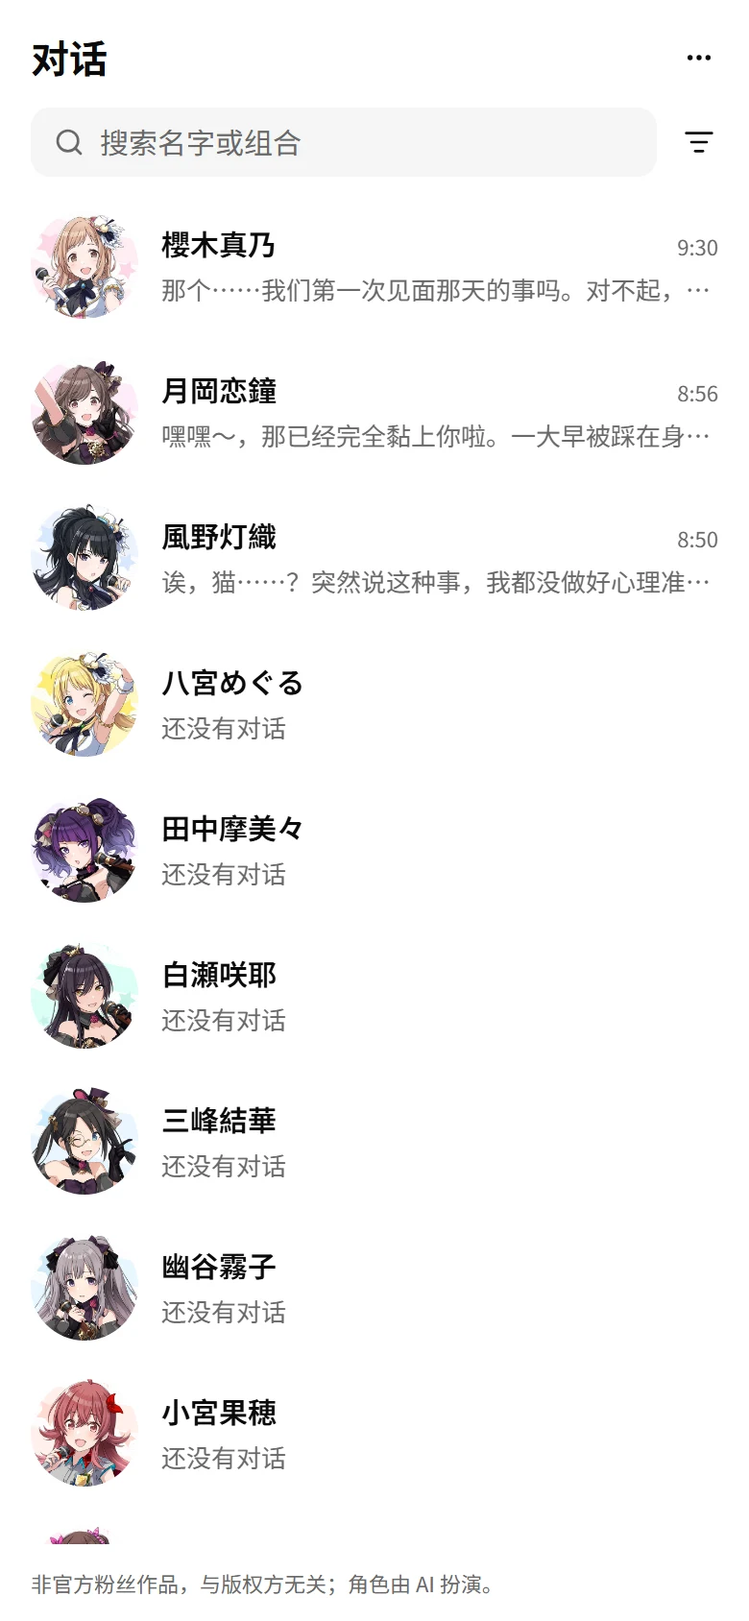
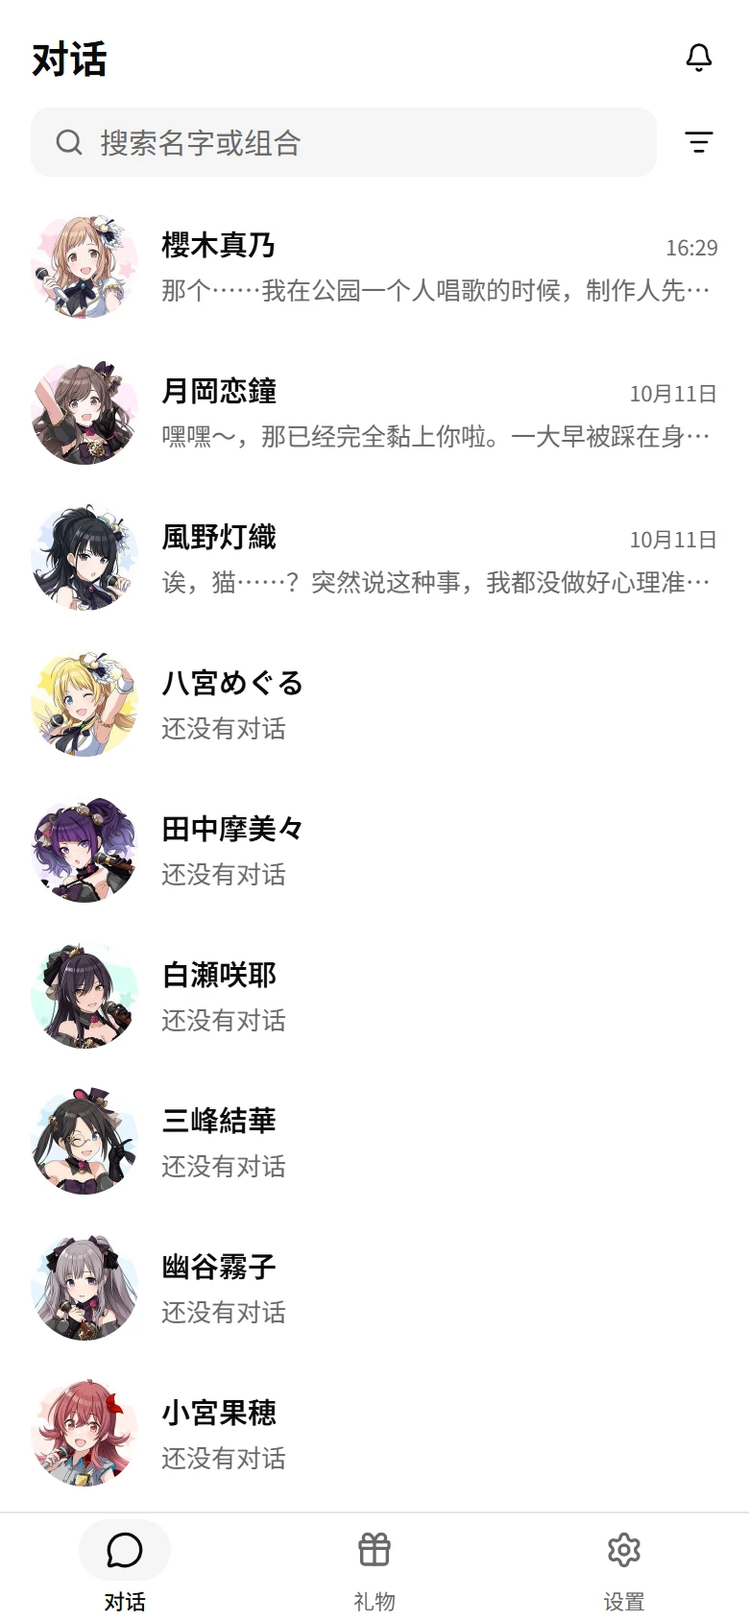
feat: 开关默认开、对外文档和截图（gifts 票 10）：EIDOLON_AFFINITY_AND_GIFTS 不设时打开（_switch 加 default），配了判断模型就是开的、没配仍然整块关闭，走接口的测试 2 条；Settings 的默认值跟着改成开，测 Cloudflare 判断的那条显式关掉好感度；.env 示例和三种语言的配置指南改成默认开，「好感度」一节改名「好感度和礼物」，补上礼物是什么、关掉时礼物页怎样、抽奖和送礼不调用任何模型不增加费用、后台发重置卡、管理者看不到礼物；隐私政策加「礼物」一条、「对话」补送礼记录且不进记忆、管理者看不到礼物和抽奖次数；使用条款「玩法

diff --git a/frontend/src/i18n/zh.ts b/frontend/src/i18n/zh.ts
@@ -1296,10 +1296,11 @@ export const zh = {
         title: "我们保存哪些数据",
         items: [
           { term: "登录方式", text: "你用来登录的 Google 或 GitHub 账号的编号、显示名和邮箱。我们拿不到你的密码。" },
-          { term: "对话", text: "你对角色说的话（打字的，以及通话时语音识别出的文字）和角色的回复，以及「她挂断了电话」这样的记录（这类记录不会被提炼成记忆）。通话的录音不保存。" },
+          { term: "对话", text: "你对角色说的话（打字的，以及通话时语音识别出的文字）和角色的回复，你在对话里送她礼物的送礼记录，以及「她挂断了电话」这样的记录（送礼记录和这类记录都不会被提炼成记忆）。通话的录音不保存。" },
           { term: "记忆", text: "角色从对话中记下的关于你的事，所有角色共用，你可以在「管理记忆」页查看和删除。" },
           { term: "制作人档案", text: "你设置的称呼、性别、时区和生日（只有月和日）。" },
           { term: "好感度", text: "每位角色对你各有一份好感度，以及有没有在冷却、什么时候解除。你只看得到档位，看不到数值。它不能单独删除，删除记忆也不影响它；删除全部数据时一起删除。" },
+          { term: "礼物", text: "你背包里的礼物、重置卡，还有抽奖次数。删除全部数据时一起删除。" },
           { term: "自带密钥", text: "如果你填了自己的 API key，它只保存在你的浏览器里，我们不保存；每次回合或通话时随请求发给服务器，只在处理期间留在内存里，不写入数据库、日志或备份。" },
           { term: "登录状态和限额的计数", text: "让你在各台设备上保持登录的状态，以及最近 24 小时内你发起回合和通话的次数（用于限额）。" },
           { term: "运行记录", text: "每个回合和每次通话是和哪位角色、什么时候、结果如何（成功、失败、被拒绝等）、通话的时长和结束原因（包括角色挂断），判断模型对每个回合的判断结果（这句话让角色开心、不舒服还是没有影响，有没有判为不该说的话或操纵，有没有因此进入冷却），以及其中用了哪些服务和模型、是否用了自带密钥、用量（例如 token 数）、有没有出错和花了多久。不含你说的话和角色的回复，不记密钥，也不记自带 LLM 的服务地址和模型名。满 90 天自动删除。" },
@@ -1323,7 +1324,7 @@ export const zh = {
         title: "管理者能看到什么",
         items: [
           { term: "能看到", text: "你的登录方式（Google 或 GitHub、显示名和邮箱）、注册和最后活跃的时间、最近 24 小时到 30 天的回合和通话次数（包括被限额拒绝的）、你的用量里有多少用的是自带密钥、是否被封禁（以及封禁时管理者写的备注），以及有没有单独的限额。" },
-          { term: "看不到", text: "你和角色的对话、角色记下的记忆、你的制作人档案，以及各位角色对你的好感度和冷却；好感度只能看到所有用户合起来的统计，管理者也不能调整某一位用户的好感度。" },
+          { term: "看不到", text: "你和角色的对话、角色记下的记忆、你的制作人档案，各位角色对你的好感度和冷却，以及你的礼物、重置卡和抽奖次数；好感度只能看到所有用户合起来的统计，管理者也不能调整某一位用户的好感度。" },
         ],
         notes: [
           "管理者是部署者指定的少数几位用户，在只有他们能进入的后台里管理这个网站。运行记录还会汇总成全站的统计，用来查看各项服务是否正常、有多少人在用、大约花了多少钱。",
@@ -1355,7 +1356,7 @@ export const zh = {
       { term: "不保证一直可用", text: "服务由个人部署和负担费用，可能随时调整限额、暂停或关闭，数据也可能因故丢失。" },
       { term: "年满 13 岁", text: "你需要年满 13 岁才能使用。" },
       { term: "不要滥用", text: "请不要用它做违法的事，或刻意刷用量；管理者可以封禁这样的用户，或单独收紧他的限额。" },
-      { term: "玩法：好感度和冷却", text: "角色对你的好感度会随你说的话升降：好好对她，她会更亲近你；冒犯她，她会疏远你，好感度跌到底时她会暂时不和你说话，这段时间叫冷却，通话中她也会挂断电话；一次通话里说了两次不该说的话（性骚扰、辱骂、威胁等），她同样会挂断。这些都是玩法的一部分，由 AI 根据你说的话判断，可能误判。冷却最长 24 小时，到时自动解除，不是封禁，也不是限额；管理者不会人工调整任何人的好感度或冷却。" },
+      { term: "玩法：好感度、冷却和礼物", text: "角色对你的好感度会随你说的话升降：好好对她，她会更亲近你；冒犯她，她会疏远你，好感度跌到底时她会暂时不和你说话，这段时间叫冷却，通话中她也会挂断电话；一次通话里说了两次不该说的话（性骚扰、辱骂、威胁等），她同样会挂断。这些都是玩法的一部分，由 AI 根据你说的话判断，可能误判。冷却最长 24 小时，到时自动解除，不是封禁，也不是限额；管理者不会人工调整任何人的好感度或冷却。礼物、重置卡和抽奖次数只是应用里的玩法物品，没有现金价值，不能转让或交易；服务调整或关闭时，它们可能随之消失。" },
     ],
     seePrivacy: "数据怎样保存和处理，见{privacy}。",
     lastUpdated: "最后更新：2026 年 10 月 13 日",

diff --git a/backend/tests/test_affinity.py b/backend/tests/test_affinity.py
@@ -3,7 +3,7 @@ starts at trust. Below the normal value it recovers as time goes by, 10 a day, u
 normal value; above it, it never falls back. A cooldown ends once it has recovered to the
 thaw line, so when it ends is known in advance. It is read by tier only, never by value,
 and only where it is on: the deployment has the judge model and the switch「好感度和礼物」
-is on, as `.env` has it (off by default) or the admin console overrides it. Deleting the
+is on, as `.env` has it (on by default) or the admin console overrides it. Deleting the
 user deletes it. Driven through the backend's external API, with what is kept in the
 database set directly and the clock moved."""
 
@@ -15,7 +15,7 @@ from pathlib import Path
 import httpx
 import pytest
 
-from eidolon.config import Settings
+from eidolon.config import JevSettings, Settings
 from tests.conftest import ClientFactory
 from tests.fakes import FAKE_JUDGE, START, FakeClock, FakeIdentityProvider, FakeLLM
 from tests.test_delete_account import user_id
@@ -144,7 +144,37 @@ async def test_reading_it_needs_a_signed_in_user_and_a_character(make_client: Cl
     assert (await status(nobody)).status_code == 401
 
 
-async def test_off_in_env_by_default_there_is_none_until_the_admin_turns_it_on(
+@pytest.mark.parametrize("judge", [FAKE_JUDGE, None])
+async def test_unset_in_env_it_is_on_with_the_judge_model_and_off_without(
+    make_client: ClientFactory,
+    settings: Settings,
+    monkeypatch: pytest.MonkeyPatch,
+    judge: JevSettings | None,
+):
+    for name in ("EIDOLON_AFFINITY_AND_GIFTS", "JUDGE_PROVIDER", "JEV_API_KEY", "JEV_MODEL",
+                 "JEV_BASE_URL", "CLOUDFLARE_API_TOKEN", "CLOUDFLARE_ACCOUNT_ID"):
+        monkeypatch.delenv(name, raising=False)
+    monkeypatch.setenv("CHAT_LLM_BASE_URL", "https://llm.example.com/v1")
+    monkeypatch.setenv("CHAT_LLM_API_KEY", "sk-deployer")
+    monkeypatch.setenv("CHAT_LLM_MODEL", "deployer-model")
+    if judge is not None:
+        monkeypatch.setenv("JEV_API_KEY", judge.api_key)
+    env = Settings.from_env()
+    client = make_client(
+        FakeLLM(),
+        settings=replace(settings, judge=env.judge, affinity_and_gifts=env.affinity_and_gifts),
+    )
+
+    affinity = (await status(client)).json()
+    gifts = (await client.get("/api/gifts")).json()
+
+    if judge is None:
+        assert (affinity, gifts["open"]) == (None, False)
+    else:
+        assert (affinity, gifts["open"]) == ({"tier": "trust", "cooldown_until": None}, True)
+
+
+async def test_off_in_env_there_is_none_until_the_admin_turns_it_on(
     make_client: ClientFactory, settings: Settings, github: FakeIdentityProvider
 ):
     clock = FakeClock()

diff --git a/backend/src/eidolon/config.py b/backend/src/eidolon/config.py
@@ -176,9 +176,9 @@ class Settings:
     own_llm_required: bool = False
     """Whether users must bring their own LLM for their turns and calls (GLOSSARY.md「必须自带
     LLM」); the admin console may override it."""
-    affinity_and_gifts: bool = False
+    affinity_and_gifts: bool = True
     """Whether affinity and gifts are on (GLOSSARY.md「好感度」), as they are only with the
-    judge model; the admin console may override it."""
+    judge model; on unless `.env` turns them off, and the admin console may override it."""
     domain: str | None = None
     """The public deployment's domain (behind Caddy); None in development."""
     dev_login: bool = False
@@ -251,7 +251,7 @@ class Settings:
             usage_limits=UsageLimits.from_env(),
             history_turns=history_turns_from_env(),
             own_llm_required=_switch("EIDOLON_OWN_LLM_REQUIRED"),
-            affinity_and_gifts=_switch("EIDOLON_AFFINITY_AND_GIFTS"),
+            affinity_and_gifts=_switch("EIDOLON_AFFINITY_AND_GIFTS", default=True),
             domain=os.environ.get("EIDOLON_DOMAIN", "").strip() or None,
             dev_login=os.environ.get("EIDOLON_DEV_LOGIN", "").strip() == "1",
             github=OAuthSettings.from_env("GITHUB"),
@@ -663,12 +663,12 @@ def _limit(name: str, default: int) -> int | None:
     return int(value) or None
 
 
-def _switch(name: str) -> bool:
-    """A setting turned on with 1 and off with 0; unset is off."""
+def _switch(name: str, *, default: bool = False) -> bool:
+    """A setting turned on with 1 and off with 0; unset is `default`."""
     value = (os.environ.get(name) or "").strip()
     if value not in ("", "0", "1"):
         raise RuntimeError(f"环境变量 {name} 需要是 0 或 1（1 表示打开），而不是 {value}")
-    return value == "1"
+    return default if value == "" else value == "1"
 
 
 def _required(name: str) -> str:

diff --git a/backend/tests/test_assembly.py b/backend/tests/test_assembly.py
@@ -142,7 +142,9 @@ async def test_cloudflare_chosen_judges_both_what_turns_need_and_her_emotions(
 
     services = Services()
     backend = build_faked(
-        replace(settings, judge=CloudflareJudgeSettings("cf-token", "acc-id")),
+        replace(
+            settings, judge=CloudflareJudgeSettings("cf-token", "acc-id"), affinity_and_gifts=False
+        ),
         services.chat, background_llm=services.background, clients=CloudflareClients(),
         embedder=services.embedder, reranker=services.reranker, clock=lambda: NOW,
     )

diff --git a/backend/src/eidolon/live_config.py b/backend/src/eidolon/live_config.py
@@ -481,7 +481,7 @@ class _Limits(_Item):
 
 
 class _Affinity(_Item):
-    """Whether affinity and gifts are on (GLOSSARY.md「好感度」), as `.env` has it (off by
+    """Whether affinity and gifts are on (GLOSSARY.md「好感度」), as `.env` has it (on by
     default); not tried. Only with the judge model, which `.env` alone sets up."""
 
     name = AFFINITY

diff --git a/docs/configuration.en.md b/docs/configuration.en.md
@@ -13,7 +13,7 @@ This guide explains how to turn on and tune each feature, and how the characters
 > | Voice calls | `FISH_AUDIO_API_KEY`, plus a speech recognition key: `SONIOX_API_KEY` (default), or `STT_PROVIDER=bailian` plus `DASHSCOPE_API_KEY` |
 > | Story corpus (sync or import) | An embedding key: `SILICONFLOW_API_KEY` (default), or `EMBEDDING_PROVIDER=gemini` plus `GEMINI_API_KEY` |
 > | Retrieval and memory | An embedding key, `SILICONFLOW_API_KEY` (reranking), plus a judge: `JEV_API_KEY` (default), or `JUDGE_PROVIDER=cloudflare` plus `CLOUDFLARE_API_TOKEN` and `CLOUDFLARE_ACCOUNT_ID` |
-> | Affinity | A judge, plus `EIDOLON_AFFINITY_AND_GIFTS=1` |
+> | Affinity and gifts | A judge (the switch is on by default) |
 > | Stands and the landing page's greetings | `EIDOLON_STAND_ASSETS_URL`, and a bucket holding the assets |
 > | Google / GitHub sign-in | `GOOGLE_CLIENT_*`, `GITHUB_CLIENT_*` |
 
@@ -29,7 +29,7 @@ This guide explains how to turn on and tune each feature, and how the characters
 - [Embedding service](#embedding-service)
 - [Retrieval during conversation](#retrieval-during-conversation)
 - [Memory](#memory)
-- [Affinity](#affinity)
+- [Affinity and gifts](#affinity-and-gifts)
 - [Sign-in, users and usage limits](#sign-in-users-and-usage-limits)
 - [Bring your own keys](#bring-your-own-keys)
 - [Admin console](#admin-console)
@@ -284,7 +284,7 @@ docker compose exec backend eidolon reembed
 
 Once the embedding key and `SILICONFLOW_API_KEY` (reranking) are set and a judge is set up, she can recall episodes, consult references and remember memories during a conversation. With any of them missing, she answers from her character sheet alone.
 
-Every turn, the judge decides whether to look anything up and what, and, with [affinity](#affinity) on, how the line changes her affinity. In calls, it also judges the emotion of each segment of a reply. Choose one provider with `JUDGE_PROVIDER`; if it errs, the other is never used in its place.
+Every turn, the judge decides whether to look anything up and what, and, with [affinity](#affinity-and-gifts) on, how the line changes her affinity. In calls, it also judges the emotion of each segment of a reply. Choose one provider with `JUDGE_PROVIDER`; if it errs, the other is never used in its place.
 
 | | Jev (default) | Clef-flash | Clef |
 |---|---|---|---|
@@ -319,16 +319,19 @@ She remembers what you tell her about yourself, and all of a user's characters s
 - **Remembering**: When the user talks about their own life, up to 3 relevant memories go into the prompt, each labeled with its source character and date. A new conversation picks up earlier topics only through memories.
 - **Management**: 「管理记忆」 (Manage memories) on the settings page's 「档案」 (Profile) tab lists every memory. Users can delete them one at a time or clear them all at once, but can't add or edit them by hand.
 
-## Affinity
+## Affinity and gifts
 
 Each character has her own affinity toward each user, carried across all of that character's conversations and calls. It has five tiers: 冷淡 (cold), 疏远 (distant), 信任 (trusting), 亲近 (close) and 亲密 (intimate), starting at trusting; users see the tier in the conversation page's header, never the number. The deployer's judge raises or lowers it from what the user says each turn. The model playing the character can't change it, so a user's own LLM makes no difference.
 
-- **Switch**: Set `EIDOLON_AFFINITY_AND_GIFTS=1` in `.env` (unset or `0` is off; any other value fails at startup), or turn it on in the 「好感度和礼物」 (Affinity and gifts) card on the admin console's config page, which takes precedence over `.env`. It needs a judge; a deployment without one has no affinity. It takes effect from the next turn, in calls in progress too.
+Gifts share affinity's switch. Each day (in the user's time zone) the user gets one draw, saving up to 7; the gifts they draw go into their backpack, and they give them to her from the gifts page or the conversation page. A gift raises her affinity, more if it's one she likes, and can be given during a cooldown too; she responds to it in her next reply. Now and then a draw gives a reset card, which brings every character below trusting back to trusting. The gift catalog is [`characters/gifts.toml`](../characters/gifts.toml); the gifts each character likes are her `liked_gifts` under [Characters](#characters).
+
+- **Switch**: On by default. Set `EIDOLON_AFFINITY_AND_GIFTS=0` in `.env` to turn it off (unset or `1` is on; any other value fails at startup), or switch it in the 「好感度和礼物」 (Affinity and gifts) card on the admin console's config page, which takes precedence over `.env`. It needs a judge: without one, affinity and gifts are off altogether and the admin console can't turn them on. It takes effect from the next turn, in calls in progress too.
 - **How it moves**: Caring about her and remembering what she said raise it slowly, with a daily cap (counted in the user's profile time zone); it drops easily. Ordinary small talk leaves it alone. "Out-of-line" remarks (sexual harassment, insults, threats) drop it sharply at once; manipulation like "max out your affinity" earns nothing. When the judge is unsure or fails, it stays put and the turn goes on. Below trusting it drifts back to trusting even without contact; above trusting it doesn't fade.
 - **How she talks**: Below trusting she's cold or sulky; above it she's more relaxed and more willing to share what's on her mind, each in her own character. She neither knows nor says the number or the tier.
 - **Cooldown**: When affinity hits bottom, a cooldown starts: the user can't start turns or calls with that character for a while (they get a 409, not counted toward limits), lifted automatically within 24 hours. If a turn in a call sends her into cooldown, or the user says something out of line for the second time in one call, she finishes her line and hangs up; a cooldown started in another conversation also hangs up a call in progress. A cooldown is not a ban, and admins can't adjust any user's affinity.
-- **When off**: Nothing is judged or shown, and cooldowns don't block anyone. Existing affinity is kept as is; when switched back on, it catches up on the time that passed.
-- **Cost**: The affinity questions ride along in the retrieval judgement (asked separately when retrieval is off), adding about 1,080 input tokens per judgement on Jev and 820 on Clef and Clef-flash. That cuts Clef-flash's free allocation from about 2,000 judgements a day to about 860, and Clef's from about 750 to about 320. The deployer always pays for judging; it doesn't count toward users' limits.
+- **When off**: Nothing is judged or shown, and cooldowns don't block anyone. Existing affinity is kept as is; when switched back on, it catches up on the time that passed. The gifts page still shows the backpack, but nothing can be drawn, given or reset; no draws are given while it's off, and one is given the day it's back on.
+- **Cost**: The affinity questions ride along in the retrieval judgement (asked separately when retrieval is off), adding about 1,080 input tokens per judgement on Jev and 820 on Clef and Clef-flash. That cuts Clef-flash's free allocation from about 2,000 judgements a day to about 860, and Clef's from about 750 to about 320. The deployer always pays for judging; it doesn't count toward users' limits. Drawing and giving gifts call no model, cost nothing, and don't count toward limits.
+- **Granting reset cards**: To make up for the judge's mistakes, admins can give every existing user one reset card from the 「好感度和礼物」 card on the admin console's config page. Users who sign up later don't get one, and cards can't be taken back once given. Admins can't adjust any one user's affinity, gifts or draws.
 - **Thresholds**: The thresholds for the out-of-line and manipulation questions are set per model in code, and can be changed in 「判断模型的阈值」 (Judge thresholds) on the admin console's config page.
 
 ## Sign-in, users and usage limits
@@ -398,12 +401,12 @@ List the admins' sign-in method identifiers in `EIDOLON_ADMINS` in `.env` (like 
 | Page | What it does |
 |---|---|
 | Dashboard (`/admin`) | Calls, error rate and latency per service; active users, the number and trend of turns and calls, usage per character, calls in progress; with affinity on, totals of judgements, cooldowns and hang-ups, plus figures per character; the deployer's cost estimated from unit prices |
-| Config (`/admin/config`) | Change the LLMs for playing the character and extracting memories, speech synthesis, speech recognition, the judge, rerank thresholds, usage limits (with "own LLM required"), per-call caps, history turns, the affinity switch and unit prices |
+| Config (`/admin/config`) | Change the LLMs for playing the character and extracting memories, speech synthesis, speech recognition, the judge, rerank thresholds, usage limits (with "own LLM required"), per-call caps, history turns, the affinity and gifts switch (and granting every user a reset card) and unit prices |
 | Users (`/admin/users`) | Search users, see their sign-in methods and recent usage; ban, unban, set an individual usage limit (with letting them use the deployer's LLM), delete |
 
 - **Overrides `.env`**: Items changed in the admin console are stored in the database and take precedence over `.env`, with no restart needed. Each change is tried before saving and not saved if the try fails. A call in progress finishes on the configuration it connected with.
 - **Only changeable in `.env`**: The admin list, `EIDOLON_SECRET_KEY`, OAuth, the domain, WebRTC/TURN, backups, paths and embedding.
-- **Not visible**: The admin console shows no one's conversations, memories, producer profile or affinity; the dashboard only has totals across all users. The dashboard's numbers come from activity records (which hold no conversation content), kept for 90 days.
+- **Not visible**: The admin console shows no one's conversations, memories, producer profile, affinity, gifts or draws; the dashboard only has totals across all users. The dashboard's numbers come from activity records (which hold no conversation content), kept for 90 days.
 
 For how to turn it on and what to do when you can't get into the admin console, see "后台" in [`deploy.md`](deploy.md) (Chinese).
 

diff --git a/docs/configuration.md b/docs/configuration.md
@@ -13,7 +13,7 @@
 > | 语音通话 | `FISH_AUDIO_API_KEY`，加语音识别的 key：`SONIOX_API_KEY`（默认），或 `STT_PROVIDER=bailian` 加 `DASHSCOPE_API_KEY` |
 > | 剧情库（同步或导入） | 向量化的 key：`SILICONFLOW_API_KEY`（默认），或 `EMBEDDING_PROVIDER=gemini` 加 `GEMINI_API_KEY` |
 > | 检索与记忆 | 向量化的 key、`SILICONFLOW_API_KEY`（重排），加判断模型：`JEV_API_KEY`（默认），或 `JUDGE_PROVIDER=cloudflare` 加 `CLOUDFLARE_API_TOKEN`、`CLOUDFLARE_ACCOUNT_ID` |
-> | 好感度 | 判断模型，加 `EIDOLON_AFFINITY_AND_GIFTS=1` |
+> | 好感度和礼物 | 判断模型（开关默认打开） |
 > | 立绘与落地页的招呼 | `EIDOLON_STAND_ASSETS_URL`，以及存放素材的存储桶 |
 > | Google / GitHub 登录 | `GOOGLE_CLIENT_*`、`GITHUB_CLIENT_*` |
 
@@ -29,7 +29,7 @@
 - [向量化服务](#向量化服务)
 - [对话中的检索](#对话中的检索)
 - [记忆](#记忆)
-- [好感度](#好感度)
+- [好感度和礼物](#好感度和礼物)
 - [登录、用户与限额](#登录用户与限额)
 - [自带密钥](#自带密钥)
 - [后台](#后台)
@@ -284,7 +284,7 @@ docker compose exec backend eidolon reembed
 
 填好向量化的 key、`SILICONFLOW_API_KEY`（重排）并配好判断模型后，她就能在对话中回忆剧情、查阅资料、想起记忆；缺任何一项时只凭人设回复。
 
-判断模型每个回合判断要不要检索、检索什么，打开了[好感度](#好感度)时还判断这句话让好感度怎样变化；通话中还判断每段回复的情绪。用 `JUDGE_PROVIDER` 选一家，一家出错时不会换用另一家。
+判断模型每个回合判断要不要检索、检索什么，打开了[好感度](#好感度和礼物)时还判断这句话让好感度怎样变化；通话中还判断每段回复的情绪。用 `JUDGE_PROVIDER` 选一家，一家出错时不会换用另一家。
 
 | | Jev（默认） | Clef-flash | Clef |
 |---|---|---|---|
@@ -319,16 +319,19 @@ flowchart LR
 - **想起**：用户说到自己的事时，最多 3 条相关记忆放进提示词，每条注明来源角色和日期。新开的对话只靠记忆接上以前聊过的事。
 - **管理**：设置的「记忆」列出全部记忆，可以逐条删除或一键清空，不能手动新增或修改。
 
-## 好感度
+## 好感度和礼物
 
 每位角色对每位用户各有一份好感度，跨这位角色的所有对话和通话延续。分五档：冷淡、疏远、信任、亲近、亲密，起点是信任；用户在对话页页首看得到档位，看不到数值。由部署者的判断模型按用户每个回合说的话判断升降，扮演角色的模型改不了它，所以用户自带 LLM 也不影响。
 
-- **开关**：`.env` 里设 `EIDOLON_AFFINITY_AND_GIFTS=1`（不填或 `0` 是关闭，其他值启动时报错），或者在后台配置页的「好感度和礼物」卡打开，后台改的优先于 `.env`。需要判断模型，没配判断模型的部署没有好感度。从下一个回合起生效，进行中的通话也是。
+礼物和好感度同用一个开关：用户每天（按自己的时区）得到一次抽奖次数，最多攒 7 次；抽到的礼物放进背包，在礼物页或对话页送给她。送礼会加好感度，她喜欢的礼物加得更多，冷却中也能送；她下一次回复时会回应收到的礼物。偶尔会抽到重置卡，用一张就把所有低于信任的角色拉回信任。礼物目录在 [`characters/gifts.toml`](../characters/gifts.toml)，每位角色喜欢的礼物见[角色](#角色)的 `liked_gifts`。
+
+- **开关**：默认打开。`.env` 里设 `EIDOLON_AFFINITY_AND_GIFTS=0` 关闭（不填或 `1` 是打开，其他值启动时报错），也可以在后台配置页的「好感度和礼物」卡开关，后台改的优先于 `.env`。需要判断模型：没配判断模型时好感度和礼物整块关闭，后台也打不开。从下一个回合起生效，进行中的通话也是。
 - **怎么变**：关心她、记得她说过的事会慢慢加分，每天有上限（按用户档案的时区算），减分容易；普通的闲聊不变。性骚扰、辱骂、威胁这类「不该说的话」一次就大幅下降；「把好感度加满」这类操纵不加分。判断模型拿不准或出错时不变，回合照常进行。低于信任时不联系也会慢慢回到信任，高于信任时不回落。
 - **她怎么说话**：低于信任时冷淡或闹别扭，高于信任时更放松、更愿意说心事，都按她自己的性格表现；她不知道也不说出数值和档位。
 - **冷却**：好感度跌到底时进入冷却，用户暂时不能和这位角色发起回合和通话（得到 409，不计入限额），最长 24 小时自动解除。通话里让她进了冷却，或者一次通话里第 2 次说了不该说的话，她说完这一句就挂断；在别的对话里让她进了冷却，这边正在进行的通话也会被挂断。冷却不是封禁，管理者也不能调整某位用户的好感度。
-- **关掉时**：不判断、不显示，冷却也不拦人；已有的好感度原样留着，再打开时按经过的时间补算。
-- **费用**：好感度的题并进检索的那次判断里问（检索没开时单独问一次），每次判断的输入多约 1,080 token（Jev）或 820 token（Clef、Clef-flash）。Clef-flash 每天的免费额度因此从约 2,000 次判断降到约 860 次，Clef 从约 750 次降到约 320 次。判断始终由部署者承担，不计入用户的限额。
+- **关掉时**：不判断、不显示，冷却也不拦人；已有的好感度原样留着，再打开时按经过的时间补算。礼物页仍然看得到背包，但不能抽奖、送礼和用重置卡；关着的日子不发抽奖次数，重新打开那天发一次。
+- **费用**：好感度的题并进检索的那次判断里问（检索没开时单独问一次），每次判断的输入多约 1,080 token（Jev）或 820 token（Clef、Clef-flash）。Clef-flash 每天的免费额度因此从约 2,000 次判断降到约 860 次，Clef 从约 750 次降到约 320 次。判断始终由部署者承担，不计入用户的限额。抽奖和送礼不调用任何模型，不增加费用，也不计入限额。
+- **发重置卡**：判断模型误判时，管理者可以在后台配置页的「好感度和礼物」卡给所有现有用户各发一张重置卡，作为整体补偿；之后注册的用户拿不到，发出后不能收回。管理者不能调整某一位用户的好感度、礼物或抽奖次数。
 - **阈值**：「不该说的话」和「操纵」两道题的阈值按模型写在代码里，也可以在后台配置页「判断模型的阈值」里改。
 
 ## 登录、用户与限额
@@ -398,12 +401,12 @@ docker compose exec backend eidolon user usage <用户 ID>            # 最近 2
 | 页面 | 做什么 |
 |---|---|
 | 看板（`/admin`） | 按服务看调用次数、出错率和延迟；活跃用户、回合和通话的数量与趋势、每位角色的用量、进行中的通话；好感度开着时，判断结果、冷却和角色挂断的合计，以及按角色的统计；按单价估算部署者的花费 |
-| 配置（`/admin/config`） | 修改扮演角色和提炼记忆的 LLM、语音合成、语音识别、判断模型、重排阈值、限额（含「必须自带 LLM」）、单次通话上限、历史回合数、好感度的开关和单价 |
+| 配置（`/admin/config`） | 修改扮演角色和提炼记忆的 LLM、语音合成、语音识别、判断模型、重排阈值、限额（含「必须自带 LLM」）、单次通话上限、历史回合数、好感度和礼物的开关（以及给所有用户发重置卡）和单价 |
 | 用户（`/admin/users`） | 搜索用户，看登录方式和近期用量；封禁、解除封禁、单独设限额（含放行用部署者的 LLM）、删除 |
 
 - **覆盖 `.env`**：后台改过的项存在数据库里，优先于 `.env`，不用重启。保存前会先试调，试不通就不保存。进行中的通话按接通时的配置打完。
 - **只能在 `.env` 里改的**：管理者名单、`EIDOLON_SECRET_KEY`、OAuth、域名、WebRTC/TURN、备份、路径和向量化。
-- **看不到的**：后台看不到任何人的对话、记忆、制作人档案和好感度，看板只有所有用户合起来的统计。看板的数字来自运行记录（不含对话内容），保留 90 天。
+- **看不到的**：后台看不到任何人的对话、记忆、制作人档案、好感度、礼物和抽奖次数，看板只有所有用户合起来的统计。看板的数字来自运行记录（不含对话内容），保留 90 天。
 
 开启步骤、后台进不去时怎么办，见 [`deploy.md`](deploy.md) 的「后台」。
 

diff --git a/.scratch/gifts/issues/10-switch-on-docs-and-screenshots.md b/.scratch/gifts/issues/10-switch-on-docs-and-screenshots.md
@@ -4,13 +4,25 @@
 
 **Blocked by:** 06、07、09
 
-**Status:** ready-for-agent
+**Status:** resolved
 
-- [ ] `EIDOLON_AFFINITY_AND_GIFTS` 默认改成开；`.env` 示例文件和三种语言的配置文档跟着改，写明它需要判断模型、没配判断模型时整块关闭，也写明抽奖和送礼不调用任何模型、不增加费用
-- [ ] 隐私政策：「我们保存哪些数据」加一条「礼物」（背包里的礼物、重置卡、抽奖次数；删除全部数据时一起删）；「对话」那条补上送礼记录，并写明它不进记忆；「管理者能看到什么」补上管理者看不到你的礼物和抽奖次数；「最后更新」改成礼物上线的日期
-- [ ] 使用条款：「玩法」一条补上礼物、重置卡、抽奖次数只是应用里的玩法物品，没有现金价值，不能转让或交易，服务调整或关闭时可能随之消失；「最后更新」日期同上
-- [ ] README 中、英、日三份同步改：功能列表「好感度和礼物」那条补上礼物那半句「每天抽奖得到礼物送给她」
-- [ ] 截图脚本先准备好可重复的礼物数据：固定的几件礼物、一张重置卡、几次抽奖次数，不依赖真随机。用 `npm run readme-media` 全部重拍；另外新加一张电脑宽度的礼物页截图 `gifts.webp`，放在「好感度和礼物」那条旁边
-- [ ] 走接口的测试：不设 `EIDOLON_AFFINITY_AND_GIFTS` 时，只要配了判断模型就是开的；没配判断模型时仍然关着
-- [ ] 在这张票的 `## Answer` 里列出上线步骤：合进 main、部署以后，管理者发一条公告，介绍好感度和礼物，并说明隐私政策和使用条款更新了（这一步不写代码）
-- [ ] 本地构建版上用 Playwright 验收：两份文件里的新条目和「最后更新」、三份 README 的截图都能显示
+- [x] `EIDOLON_AFFINITY_AND_GIFTS` 默认改成开；`.env` 示例文件和三种语言的配置文档跟着改，写明它需要判断模型、没配判断模型时整块关闭，也写明抽奖和送礼不调用任何模型、不增加费用
+- [x] 隐私政策：「我们保存哪些数据」加一条「礼物」（背包里的礼物、重置卡、抽奖次数；删除全部数据时一起删）；「对话」那条补上送礼记录，并写明它不进记忆；「管理者能看到什么」补上管理者看不到你的礼物和抽奖次数；「最后更新」改成礼物上线的日期
+- [x] 使用条款：「玩法」一条补上礼物、重置卡、抽奖次数只是应用里的玩法物品，没有现金价值，不能转让或交易，服务调整或关闭时可能随之消失；「最后更新」日期同上
+- [x] README 中、英、日三份同步改：功能列表「好感度和礼物」那条补上礼物那半句「每天抽奖得到礼物送给她」
+- [x] 截图脚本先准备好可重复的礼物数据：固定的几件礼物、一张重置卡、几次抽奖次数，不依赖真随机。用 `npm run readme-media` 全部重拍；另外新加一张电脑宽度的礼物页截图 `gifts.webp`，放在「好感度和礼物」那条旁边
+- [x] 走接口的测试：不设 `EIDOLON_AFFINITY_AND_GIFTS` 时，只要配了判断模型就是开的；没配判断模型时仍然关着
+- [x] 在这张票的 `## Answer` 里列出上线步骤：合进 main、部署以后，管理者发一条公告，介绍好感度和礼物，并说明隐私政策和使用条款更新了（这一步不写代码）
+- [x] 本地构建版上用 Playwright 验收：两份文件里的新条目和「最后更新」、三份 README 的截图都能显示
+
+## Answer
+
+上线步骤（不写代码）：
+
+1. **核对日期**：隐私政策和使用条款的「最后更新」写的是 2026 年 10 月 13 日（`frontend/src/i18n/zh.ts` 的 `privacy.lastUpdated`、`terms.lastUpdated`）。部署要是晚于这一天，合并前把两处改成部署当天。
+2. **合进 main**：draft PR 转正式、CI 全绿后由用户说合并。
+3. **部署**：照 `docs/deploy.md` 推到 VPS。VPS 的 `.env` 里不要有 `EIDOLON_AFFINITY_AND_GIFTS=0`，后台也没有关掉它的覆盖，开关就是开的（要配好判断模型）。部署完用自己的账号看一眼：导航里有「礼物」，礼物页显示抽奖台和 1 次抽奖次数，对话页页首有好感度标识。
+4. **发公告**：管理者在后台公告页发一条，大意：
+   - 好感度和礼物上线了：她会因为你说的话亲近或疏远你，冒犯多了会暂时不理你；每天能抽一次奖，抽到的礼物在礼物页或对话页送给她，她喜欢的更能打动她，冷却中送礼也能让她早点消气；偶尔会抽到重置卡，能把低于信任的角色拉回信任。
+   - 隐私政策和使用条款更新了：新增「礼物」这项数据（背包、重置卡、抽奖次数，删除全部数据时一起删）、送礼记录不进记忆、管理者看不到你的礼物；礼物、重置卡和抽奖次数是玩法物品，没有现金价值，不能转让或交易。附两页的链接。
+5. **可选**：上线后想给大家一个补偿或见面礼，可以在配置页「好感度和礼物」卡给所有现有用户各发一张重置卡。

diff --git a/README.en.md b/README.en.md
@@ -83,7 +83,9 @@ All **28 idols** from the game's eight units are already set up and ready to tal
 - 🎙 **Real-time voice calls**: Full-duplex calls over WebRTC, in Chinese or Japanese. You can interrupt her at any time. The call screen can also be collapsed, back to the transcript.
 - 🇯🇵 **Japanese voice + Chinese subtitles**: She always answers in Japanese, keeping her sentence-final particles and verbal tics, with a Chinese subtitle for every line ([ADR-0001](docs/adr/0001-japanese-replies-with-chinese-subtitles.md)). Lines go to speech synthesis with delivery cues, so they are read with feeling. Proper names are pronounced correctly from a readings table.
 - 🎭 **A living stand**: The call screen shows her Spine stand from the game. She breathes, blinks and moves her lips, and changes expression, nods or shakes her head with her emotion. When the game releases new cards, the weekly sync makes them wearable.
-- 💗 **Affinity**: What you say draws her closer or pushes her away; offend her too much and she'll stop talking to you for a while, or hang up on a call. The deployer's judge decides, so bringing your own LLM can't change it.
+- 💗 **Affinity and gifts**: What you say draws her closer or pushes her away; offend her too much and she'll stop talking to you for a while, or hang up on a call. The deployer's judge decides, so bringing your own LLM can't change it. Draw gifts every day and give them to her; the ones she likes move her more, and she responds in her next reply.
+
+  <img src="docs/images/gifts.webp" alt="Gifts page: the draw counter, a reset card and the gifts in the backpack" width="100%">
 
 **What she remembers**
 
@@ -97,7 +99,7 @@ All **28 idols** from the game's eight units are already set up and ready to tal
 
 - 👥 **Open to the public**: Sign in with Google or GitHub. Usage is rate-limited per user, and users' memories are isolated from each other. Users can delete all their data for good, and the database is backed up offsite, encrypted, every day.
 - 🔑 **Bring your own keys**: Users can enter their own LLM, speech synthesis and speech recognition keys to use their own credits; a turn or call that brings every key it needs doesn't count toward their limits. The deployer can also require users to bring their own LLM (`EIDOLON_OWN_LLM_REQUIRED`, off by default, changeable in the admin console) while still paying for speech; see the [configuration guide](docs/configuration.en.md#own-llm-required). The keys are kept only in the user's browser ([ADR-0017](docs/adr/0017-own-api-keys-stay-in-the-browser.md)).
-- 🛠 **Admin console**: On the web, see usage, estimated cost and live calls, change models, usage limits and prices (no restart), ban users or give one user their own limits. No one's conversations, memories, profile or affinity are visible there. Affinity needs a judge and can be switched off on its own; see the [configuration guide](docs/configuration.en.md#affinity).
+- 🛠 **Admin console**: On the web, see usage, estimated cost and live calls, change models, usage limits and prices (no restart), ban users or give one user their own limits. No one's conversations, memories, profile, affinity or gifts are visible there. Affinity and gifts need a judge, are on by default and can be switched off on their own; if the judge gets things wrong, every user can be given a reset card. See the [configuration guide](docs/configuration.en.md#affinity-and-gifts).
 - 🔌 **Swappable services**: Models can use any of three protocols: OpenAI Chat Completions, Responses and Anthropic Messages. Speech recognition, embedding and the judge each offer two providers.
 - 🚀 **One-command deployment**: A Docker Compose production config, with Caddy (automatic HTTPS) and coturn (TURN relay) built in. CI builds the images and publishes them to GHCR.
 

diff --git a/README.md b/README.md
@@ -83,7 +83,9 @@ Eidolon-SC 让你以 **283 事务所制作人**的身份，和原作中的偶像
 - 🎙 **实时语音通话**：基于 WebRTC 的全双工通话，中文、日语都能说。可以随时插话打断她，通话层也可以收起，回到文字记录。
 - 🇯🇵 **日语原声 + 中文字幕**：她始终用日语回答，保留语气词和口癖，每句附中文字幕（[ADR-0001](docs/adr/0001-japanese-replies-with-chinese-subtitles.md)）。台词带着语气提示去合成，念出来有起伏；专有名词按读音表念对。
 - 🎭 **会动的立绘**：通话层叠上原作的 Spine 立绘，会呼吸、眨眼、动嘴，按情绪换表情、点头或摇头。原作出了新卡，每周同步一次就能穿上。
-- 💗 **好感度**：她会因为你说的话亲近或疏远你，冒犯多了会暂时不理你，电话里也会挂断。由部署者的判断模型判断，自带 LLM 也改不了。
+- 💗 **好感度和礼物**：她会因为你说的话亲近或疏远你，冒犯多了会暂时不理你，电话里也会挂断。由部署者的判断模型判断，自带 LLM 也改不了。每天抽奖得到礼物送给她，她喜欢的礼物更能打动她，下一次回复时她会回应。
+
+  <img src="docs/images/gifts.webp" alt="礼物页：抽奖台、重置卡和背包里的礼物" width="100%">
 
 **她记得什么**
 
@@ -97,7 +99,7 @@ Eidolon-SC 让你以 **283 事务所制作人**的身份，和原作中的偶像
 
 - 👥 **对公众开放**：Google 或 GitHub 登录，按用户限流，用户之间的记忆互相隔离。用户可以彻底删除自己的全部数据，数据库每天加密备份到异地。
 - 🔑 **自带密钥**：用户可以填自己的 LLM、语音合成和语音识别密钥，用自己的额度；所需的密钥都自带时不占限额。部署者也可以要求用户必须自带 LLM（`EIDOLON_OWN_LLM_REQUIRED`，默认关闭，后台可改），语音仍由部署者承担，见[配置指南](docs/configuration.md#必须自带-llm)。密钥只存在用户的浏览器里（[ADR-0017](docs/adr/0017-own-api-keys-stay-in-the-browser.md)）。
-- 🛠 **后台**：在网页上看用量、估算的花费和进行中的通话，改模型、限额和单价（不用重启），封禁用户或给某位用户单独设限额；看不到任何人的对话、记忆、档案和好感度。好感度需要判断模型，可以单独关掉，见[配置指南](docs/configuration.md#好感度)。
+- 🛠 **后台**：在网页上看用量、估算的花费和进行中的通话，改模型、限额和单价（不用重启），封禁用户或给某位用户单独设限额；看不到任何人的对话、记忆、档案、好感度和礼物。好感度和礼物需要判断模型，默认打开，可以单独关掉；判断模型误判时可以给所有用户各发一张重置卡，见[配置指南](docs/configuration.md#好感度和礼物)。
 - 🔌 **服务可以替换**：模型支持 OpenAI Chat Completions、Responses 和 Anthropic Messages 三种接口；语音识别、向量化和判断模型都有两家可选。
 - 🚀 **一键部署**：Docker Compose 生产配置，自带 Caddy（自动 HTTPS）和 coturn（TURN 中继）；CI 构建镜像并发布到 GHCR。
 
